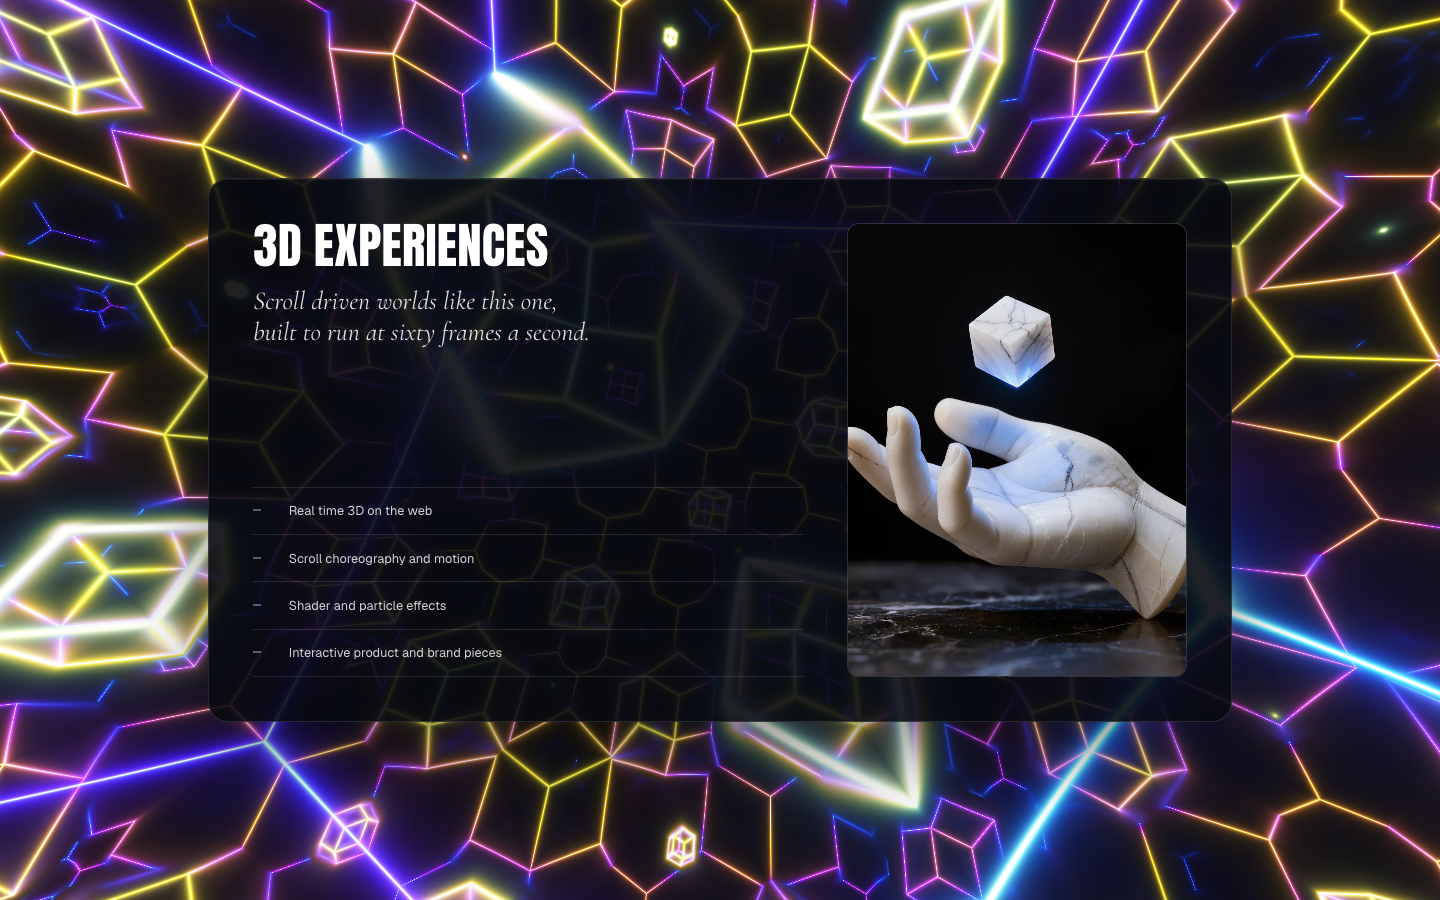
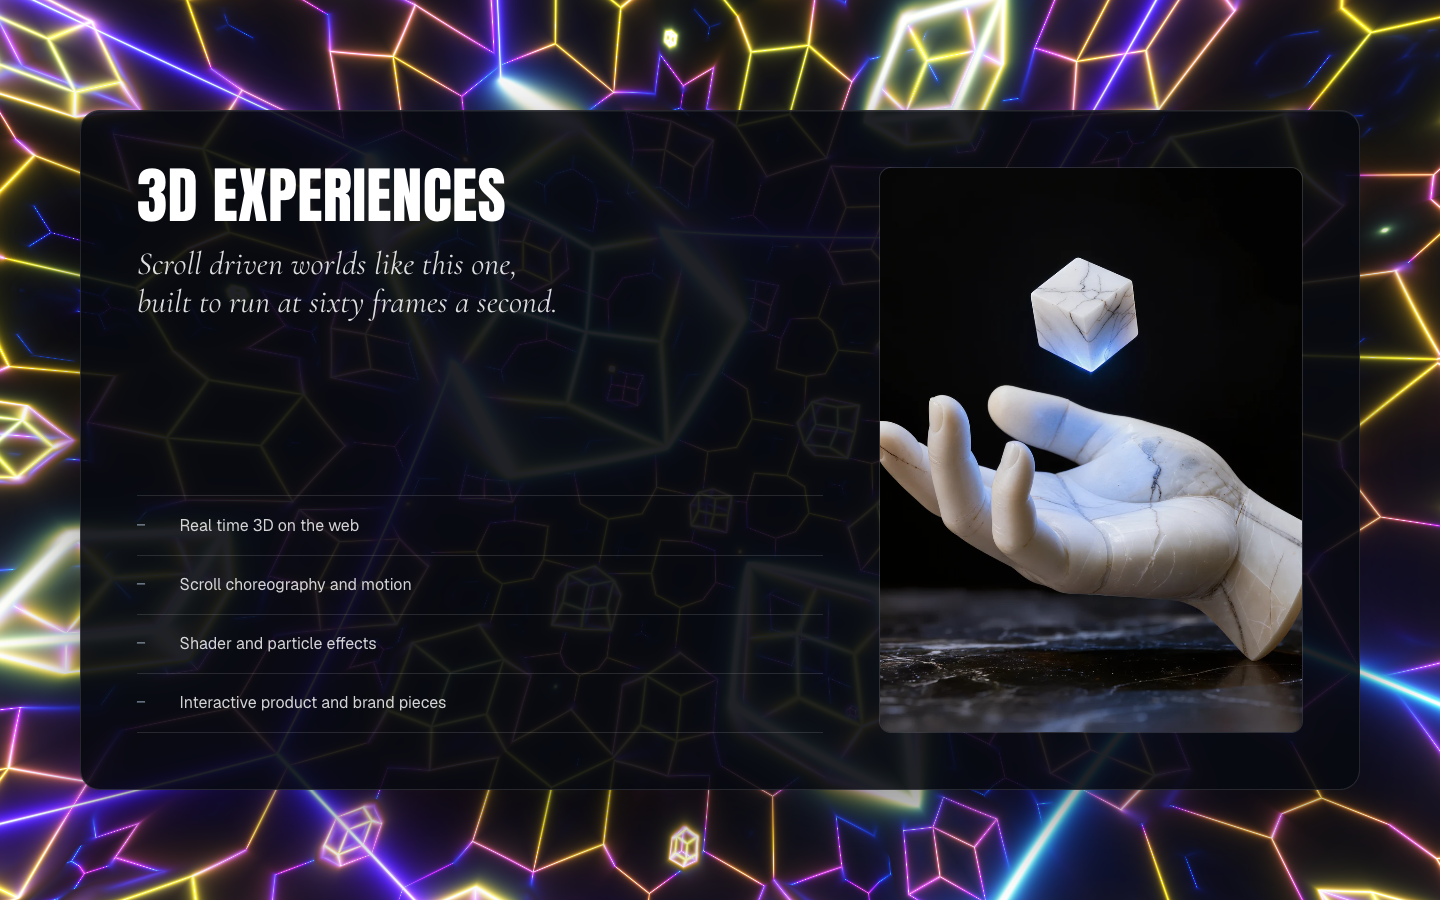
Deck cards 1.25x, type scaled with them
Claude-Session: https://claude.ai/code/session_01NAdPXLUXCGhh82qBsMYyAh

diff --git a/src/app/globals.css b/src/app/globals.css
@@ -410,7 +410,7 @@ footer.section {
   transition: opacity 400ms ease;
   color: white;
   --phi: 1.618;
-  --pad: clamp(1rem, 1.9vw, 1.9rem);
+  --pad: clamp(1.25rem, 2.4vw, 2.4rem);
 }
 .deck.is-visible {
   opacity: 1;
@@ -419,9 +419,9 @@ footer.section {
   position: absolute;
   left: 50%;
   top: 50%;
-  width: min(76vw, 64rem);
-  height: min(61.8vh, 34rem);
-  margin: calc(min(61.8vh, 34rem) / -2) 0 0 calc(min(76vw, 64rem) / -2);
+  width: min(92vw, 80rem);
+  height: min(77vh, 42.5rem);
+  margin: calc(min(77vh, 42.5rem) / -2) 0 0 calc(min(92vw, 80rem) / -2);
   display: grid;
   grid-template-columns: 1fr 0.618fr;
   gap: calc(var(--pad) * var(--phi));
@@ -448,7 +448,7 @@ footer.section {
   font-family: var(--font-wordmark);
   font-weight: 400;
   text-transform: uppercase;
-  font-size: clamp(var(--step-3), 3.4vw, var(--step-6));
+  font-size: clamp(var(--step-4), 4.25vw, var(--step-7));
   line-height: 0.92;
   letter-spacing: 0.005em;
 }
@@ -456,7 +456,7 @@ footer.section {
   margin: 0;
   font-family: var(--font-display);
   font-style: italic;
-  font-size: clamp(var(--step-1), 1.8vw, var(--step-3));
+  font-size: clamp(var(--step-2), 2.25vw, var(--step-4));
   line-height: 1.2;
   color: rgba(255, 255, 255, 0.86);
   max-width: 30ch;
@@ -468,7 +468,7 @@ footer.section {
   list-style: none;
   display: grid;
   font-family: var(--font-body);
-  font-size: var(--step--1);
+  font-size: var(--step-0);
   color: rgba(255, 255, 255, 0.82);
 }
 .deck__points li {

diff --git a/src/hero/ServiceTabs.tsx b/src/hero/ServiceTabs.tsx
@@ -33,7 +33,7 @@ export function ServiceTabs() {
       const lead = remap(q, Q.arrive[0] + 0.02, Q.truck[0]);          // first card arriving
       const tail = remap(q, Q.turnBack[0], Q.turnBack[1]);             // last card leaving
       const pos = q < Q.truck[0] ? -1 + lead : q > Q.turnBack[0] ? CARDS.length - 1 + tail : deckPosition(q);
-      const step = window.innerWidth * 0.92;
+      const step = window.innerWidth * 1.04;  // cards are wider now, so the stride grows with them
       cards.current.forEach((el, i) => {
         if (!el) return;
         const d = i - pos;                       // 0 centred, +1 one card to the right, -1 one to the left
